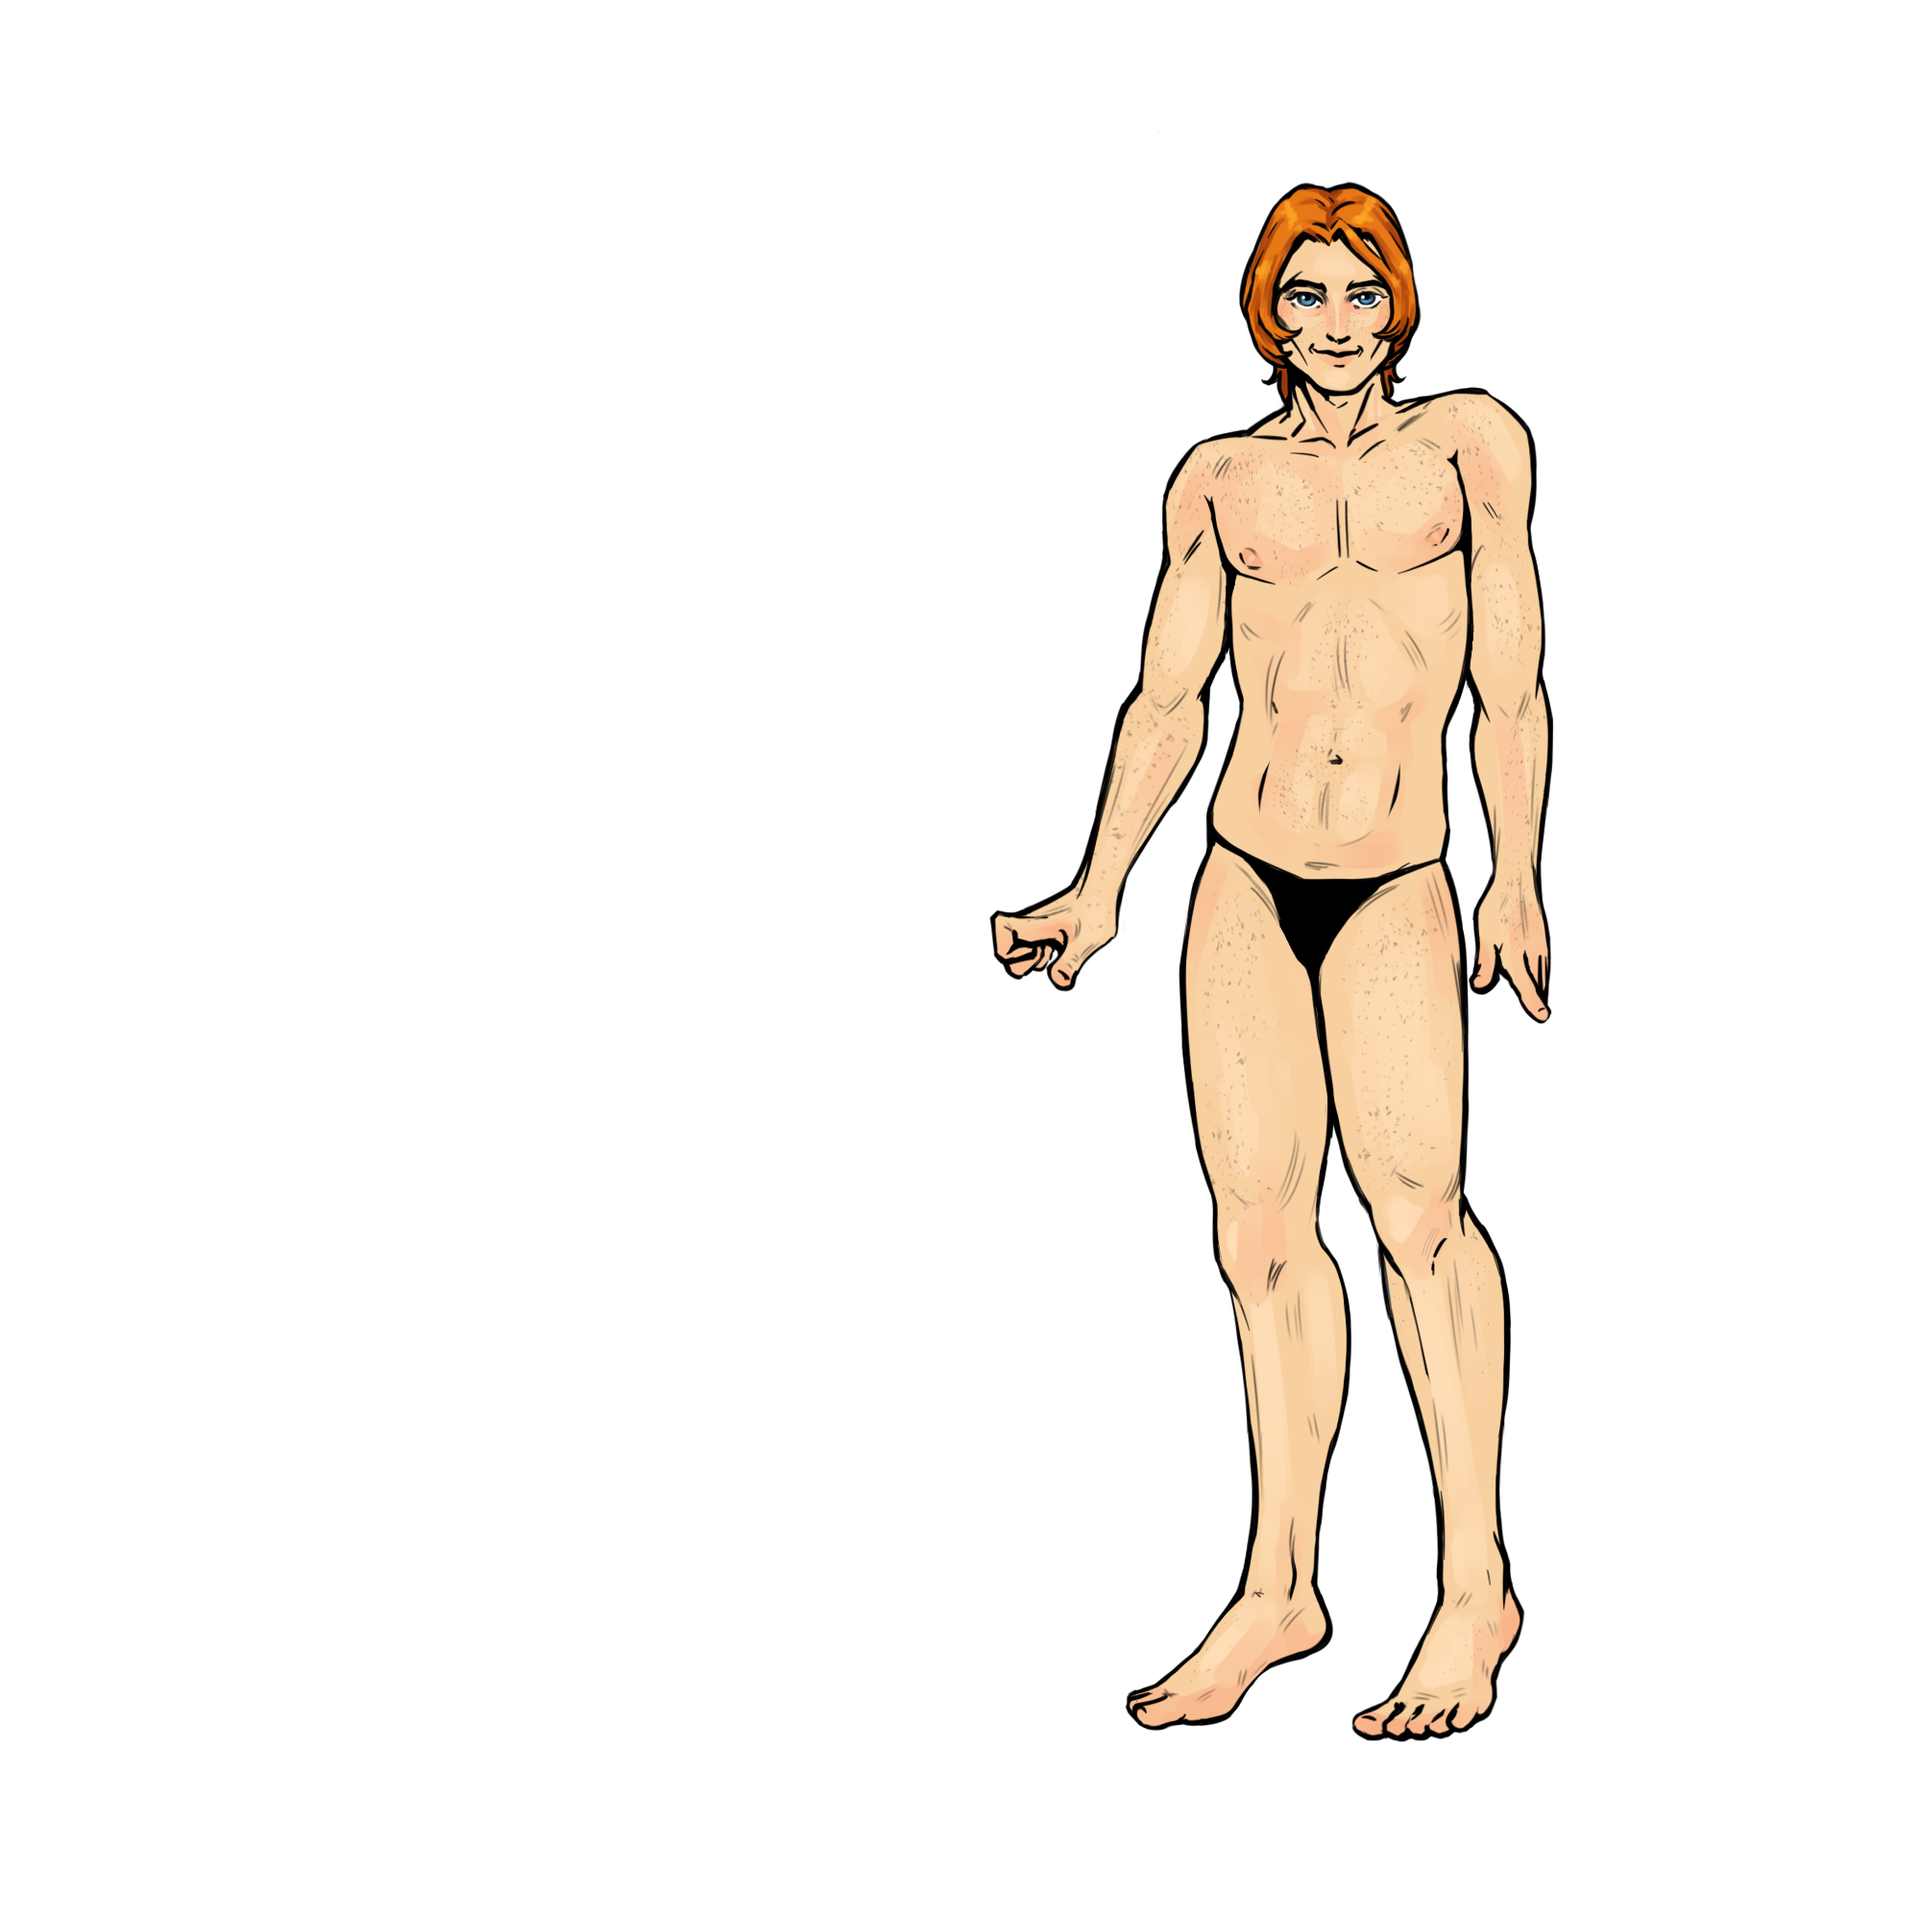
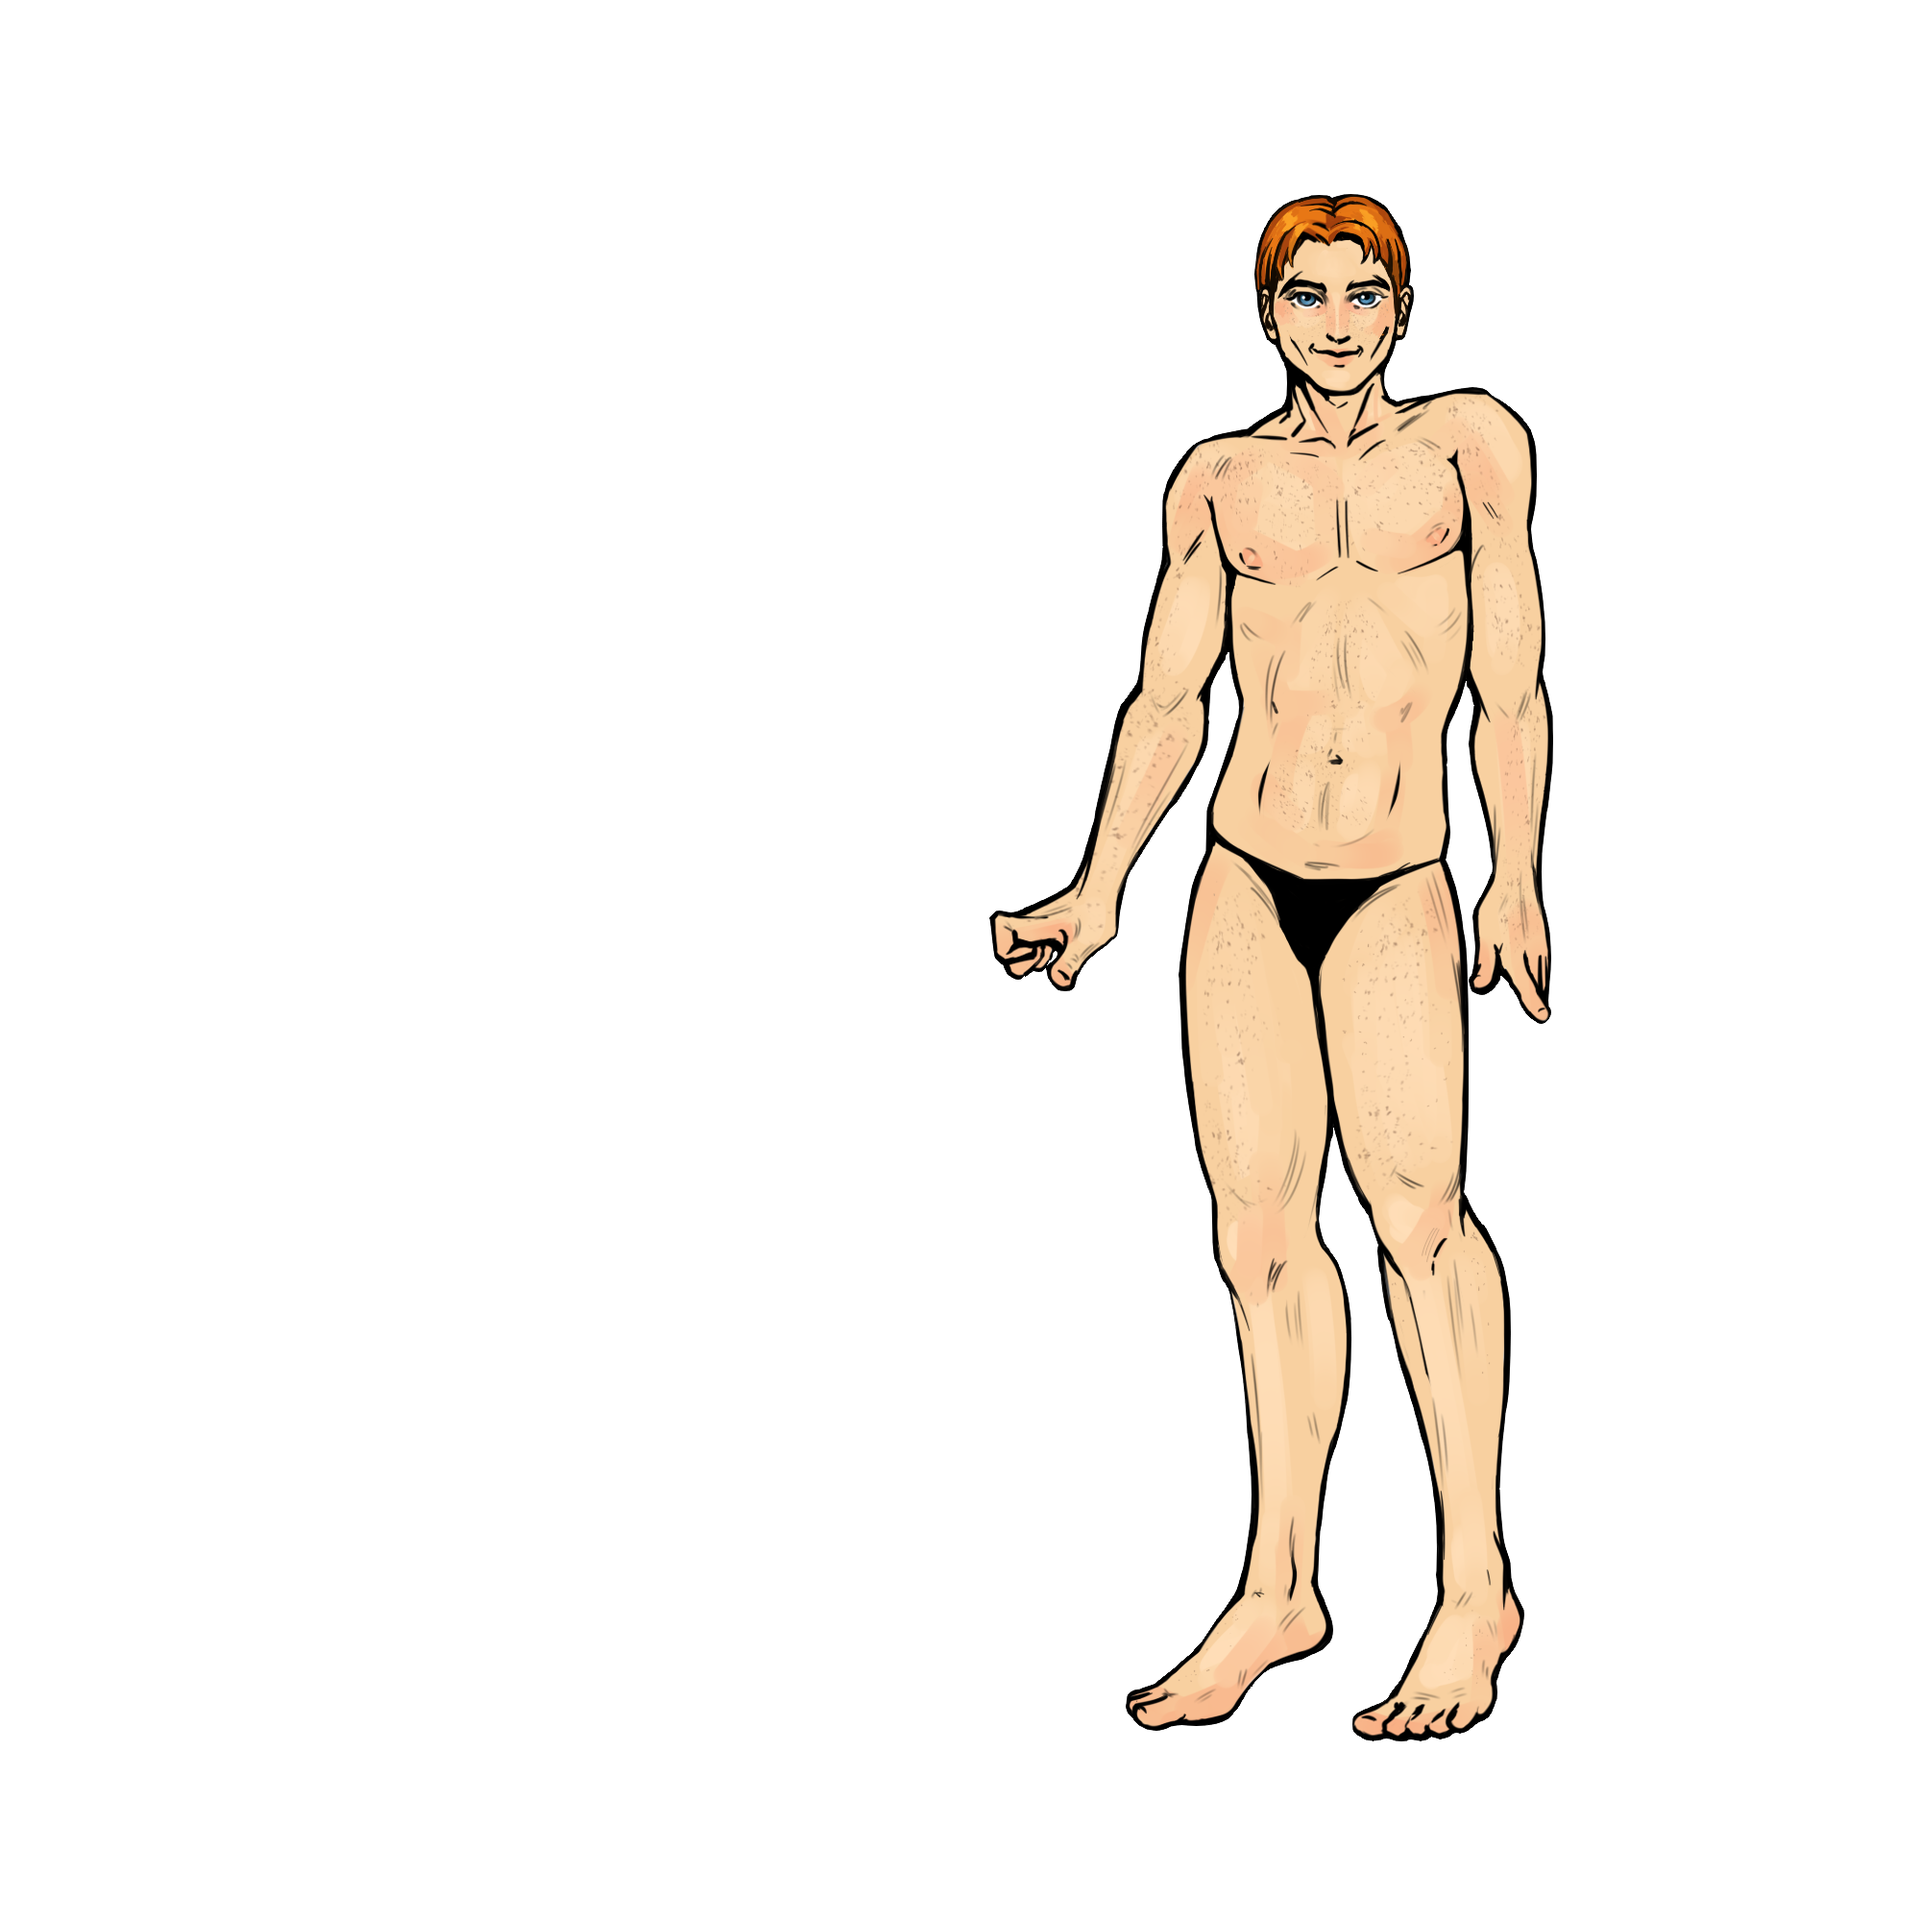
Adds stuff

Changed region(s): [[0.651, 0.093, 0.744, 0.217]]

diff --git a/index.html b/index.html
@@ -31,7 +31,7 @@
             margin-top: 30px;
         }
         
-        .canvas-container {
+        .costume-container {
             height: 100%;
             aspect-ratio: 1;
             padding: 10px;
@@ -39,6 +39,23 @@
             overflow: hidden;
             flex: 1;
             min-width: 0;
+            position: relative;
+
+            border-radius: 6px;
+        }
+
+        .image-layer {
+            position: absolute;
+            top: 0;
+            left: 0;
+            width: 100%;
+            height: 100%;
+            opacity: 0;
+            z-index: 1;
+        }
+
+        .visible {
+            opacity: 1;
         }
         
         canvas {
@@ -66,7 +83,27 @@
             text-align: center;
             color: #444;
             padding-bottom: 5px;
-            border-bottom: 1px solid #eee;
+            font-weight: bold;
+        }
+
+        select, ::picker(select) {
+            appearance: base-select;
+        }
+
+        select {
+            padding: 10px 15px;
+            font-family: 'Charter';
+            border-color: #666;
+            margin-bottom: 10px;
+        }
+
+        ::picker(select) {
+            border-color: #666;
+            border-radius: 8px;
+        }
+
+        option {
+            padding: 10px;
         }
 
         .scroll-container {
@@ -107,6 +144,16 @@
             cursor: pointer;
             border: 2px solid transparent;
             transition: all 0.2s;
+            display: none;
+        }
+
+        .menu-item-visible {
+            display: block;
+        }
+
+        .menu-item-chosen {
+            border-color: #4a90e2;
+            background-color: rgba(74, 144, 226, 0.2);
         }
 
         .menu-item:hover, .menu-item:active {
@@ -184,15 +231,25 @@
     <h1>Одевалка</h1>
     
     <div class="container">
-        <div class="canvas-container">
-            <canvas id="drawingCanvas"></canvas>
+        <div class="costume-container" id="costumeContainer">
         </div>
         
         <div class="menu-container">
             <div class="menu-title">Одежда</div>
+
+            <select name="clothes-type" id="clothesTypeSelect">
+              <option value="undies">Белье</option>
+              <option value="shirts">Верх</option>
+              <option value="pants">Низ</option>
+              <option value="shoes">Обувь</option>
+              <option value="dresses">Платья</option>
+              <option value="outerwear">Верхняя одежда</option>
+              <option value="hair">Прически</option>
+              <option value="accessories">Аксессуары</option>
+            </select>
+
             <div class="scroll-container">
                 <div class="image-menu" id="imageMenu">
-                    <!-- Images will be added here by JavaScript -->
                 </div>
             </div>
             <div class="controls">
@@ -203,89 +260,159 @@
     </div>
 
     <script>
-        // Canvas setup
-        const canvas = document.getElementById('drawingCanvas');
-        const ctx = canvas.getContext('2d');
+        const costumeContainer = document.getElementById('costumeContainer');
         const imageMenu = document.getElementById('imageMenu');
         const clearBtn = document.getElementById('clearBtn');
         // const saveBtn = document.getElementById('saveBtn');
-        
-        function resizeCanvas() {
-            const container = canvas.parentElement;
-            const newSize = (container.clientWidth - 20) * 2;
-            if (newSize != canvas.width) {
-                canvas.width = newSize;
-                canvas.height = newSize;
-                
-                redrawCanvas();
+
+        const clothesTypeSelect = document.getElementById('clothesTypeSelect');
+
+        clothesTypeSelect.addEventListener("change", (event) => {
+            setupClothesType(event.target.value);
+        });
+
+        let accessories = [];
+        let shirts = [];
+        let pants = [];
+        let undies = [];
+        let shoes = [];
+        let dresses = [];
+        let outerwear = [];
+        let hair = [];
+        let clothes = [];
+
+        let currentZ = 1;
+
+        initializePictures();
+
+        function setupPicture(picID, base = false) {
+            const element = document.createElement("img");
+            element.src = picID + '.png';
+            element.id = picID;
+            element.loading = 'lazy';
+            element.classList.add('image-layer');
+
+            costumeContainer.appendChild(element);
+
+            if (base) {
+                element.classList.add('visible');
+
+                return;
             }
-        }
-        
-        resizeCanvas();
-        window.addEventListener('resize', resizeCanvas);
-        
-        function initializeCanvas() {
-            ctx.fillStyle = 'white';
-            ctx.fillRect(0, 0, canvas.width, canvas.height);
 
-            addImage('assets/back.png', () => { addImage('assets/start.png'); });
-        }
-        
-        function redrawCanvas() {
-            initializeCanvas();
-        }
-
-        function addImage(src, callback) {
-            const img = new Image();
-            // img.crossOrigin = 'anonymous'; // For handling cross-origin images if needed
-            img.onload = function() {
-                const canvasAspect = 2 / 3;
-                const imgAspect = img.width / img.height;
-                let scale, width, height, x, y;
-                
-                scale = canvas.width / img.width;
-                width = canvas.width;
-                height = img.height * scale;
-                x = 0;
-                y = -(height - canvas.height) / 2;
-                
-                ctx.drawImage(img, x, y, width, height);
-
-                callback();
-            };
-            
-            img.onerror = function() {
-                console.error('Failed to load image:', src);
-            };
-            
-            img.src = src;
-        }
-
-        const items = new Map();
-        items.set('assets/example1icon.png', 'assets/example1full.png');
-        items.set('assets/example2icon.png', 'assets/example2full.png');
-        items.set('assets/example3icon.png', 'assets/example3full.png');
-        items.set('assets/example4icon.png', 'assets/example4full.png');
-        
-        items.forEach((value, key) => {
             const menuItem = document.createElement('img');
             menuItem.className = 'menu-item';
+            menuItem.src = picID + 'mini.png';
+            menuItem.id = picID + 'mini';
+            menuItem.loading = 'lazy';
 
-            menuItem.src = key;
-            menuItem.id = key;
             imageMenu.appendChild(menuItem);
-        });
-        
-        imageMenu.addEventListener('click', (e) => {
-            let menuItem = e.target.closest('.menu-item');
-            
-            if (menuItem) {
-                addImage(items.get(menuItem.id));
+
+            clothes.push(picID);
+
+            return picID;
+        }
+
+        function setupClothesType(type) {
+            for (let pic of clothes) {
+                if (pic.includes(type)) {
+                    document.getElementById(pic + 'mini').classList.add('menu-item-visible');
+                } else {
+                    document.getElementById(pic + 'mini').classList.remove('menu-item-visible');
+                }
             }
-        });
+        }
+
+        function initializePictures() {
+            setupPicture('assets/back', true);
+            setupPicture('assets/start', true);
+            
+            for (let i = 0; i < 1; i++) {
+                accessories.push(setupPicture(`assets/accessories${i + 1}`));
+            }
+            for (let i = 0; i < 0; i++) {
+                dresses.push(setupPicture(`assets/dresses${i + 1}`));
+            }
+            for (let i = 0; i < 2; i++) {
+                hair.push(setupPicture(`assets/hair${i + 1}`));
+            }
+            for (let i = 0; i < 0; i++) {
+                outerwear.push(setupPicture(`assets/outerwear${i + 1}`));
+            }
+            for (let i = 0; i < 2; i++) {
+                pants.push(setupPicture(`assets/pants${i + 1}`));
+            }
+            for (let i = 0; i < 1; i++) {
+                shirts.push(setupPicture(`assets/shirts${i + 1}`));
+            }
+            for (let i = 0; i < 1; i++) {
+                shoes.push(setupPicture(`assets/shoes${i + 1}`));
+            }
+            for (let i = 0; i < 3; i++) {
+                undies.push(setupPicture(`assets/undies${i + 1}`));
+            }
+
+            // шляпа
+            document.getElementById('assets/accessories1').style['z-index'] = currentZ + 10;
+
+            // defaults
+            setupClothesType('undies');
+            document.getElementById('assets/hair1').classList.add('visible');
+            document.getElementById('assets/hair1mini').classList.add('menu-item-chosen');
+
+            imageMenu.addEventListener('click', (e) => {
+                let menuItem = e.target.closest('.menu-item');
+                
+                if (menuItem) {
+                    const mainPic = document.getElementById(menuItem.id.slice(0, -4));
+                    if (mainPic.className.includes('visible')) {
+                        mainPic.classList.remove('visible');
+
+                        menuItem.classList.remove('menu-item-chosen');
+
+                        if (menuItem.id.includes('hair')) {
+                            document.getElementById('assets/hair1').classList.add('visible');
+                            document.getElementById('assets/hair1mini').classList.add('menu-item-chosen');
+                        }
+                    } else {
+                        if (menuItem.id.includes('hair')) {
+                            // чистим
+                            for (let hairID of hair) {
+                                document.getElementById(hairID).classList.remove('visible');
+                                document.getElementById(hairID + 'mini').classList.remove('menu-item-chosen');
+                            }
+                        }
+
+                        mainPic.classList.add('visible');
+
+                        if (!menuItem.id.includes('undies')) {
+                            mainPic.style['z-index'] = currentZ + 1;
+                            currentZ++;
+                            document.getElementById('assets/accessories1').style['z-index'] = currentZ + 10;
+                        }
+
+                        menuItem.classList.add('menu-item-chosen');
+                    }
+                }
+            });
+        }
         
         clearBtn.addEventListener('click', () => {
-            initializeCanvas();
+            for (let pic of clothes) {
+                // clothes
+                document.getElementById(pic).classList.remove('visible');
+
+                // chosen
+                document.getElementById(pic + 'mini').classList.remove('menu-item-chosen');
+
+                // z-index
+                document.getElementById(pic).style['z-index'] = 1;
+                currentZ = 1;
+            }
+
+            document.getElementById('assets/hair1').classList.add('visible');
+            document.getElementById('assets/hair1mini').classList.add('menu-item-chosen');
+            document.getElementById('assets/accessories1').style['z-index'] = currentZ + 10;
         });
         
         // Save canvas as image
@@ -297,15 +424,13 @@
         //     link.click();
         // });
         
-        // Touch support for mobile
-        canvas.addEventListener('touchstart', (e) => {
-            e.preventDefault();
-            // For mobile, we could add touch drawing functionality here
-            // For simplicity, we'll just keep the menu-based drawing
-        });
+        // // Touch support for mobile
+        // canvas.addEventListener('touchstart', (e) => {
+        //     e.preventDefault();
+        // });
         
         // Initialize the canvas with default content
-        initializeCanvas();
+        // initializeCanvas();
     </script>
 </body>
 </html>
